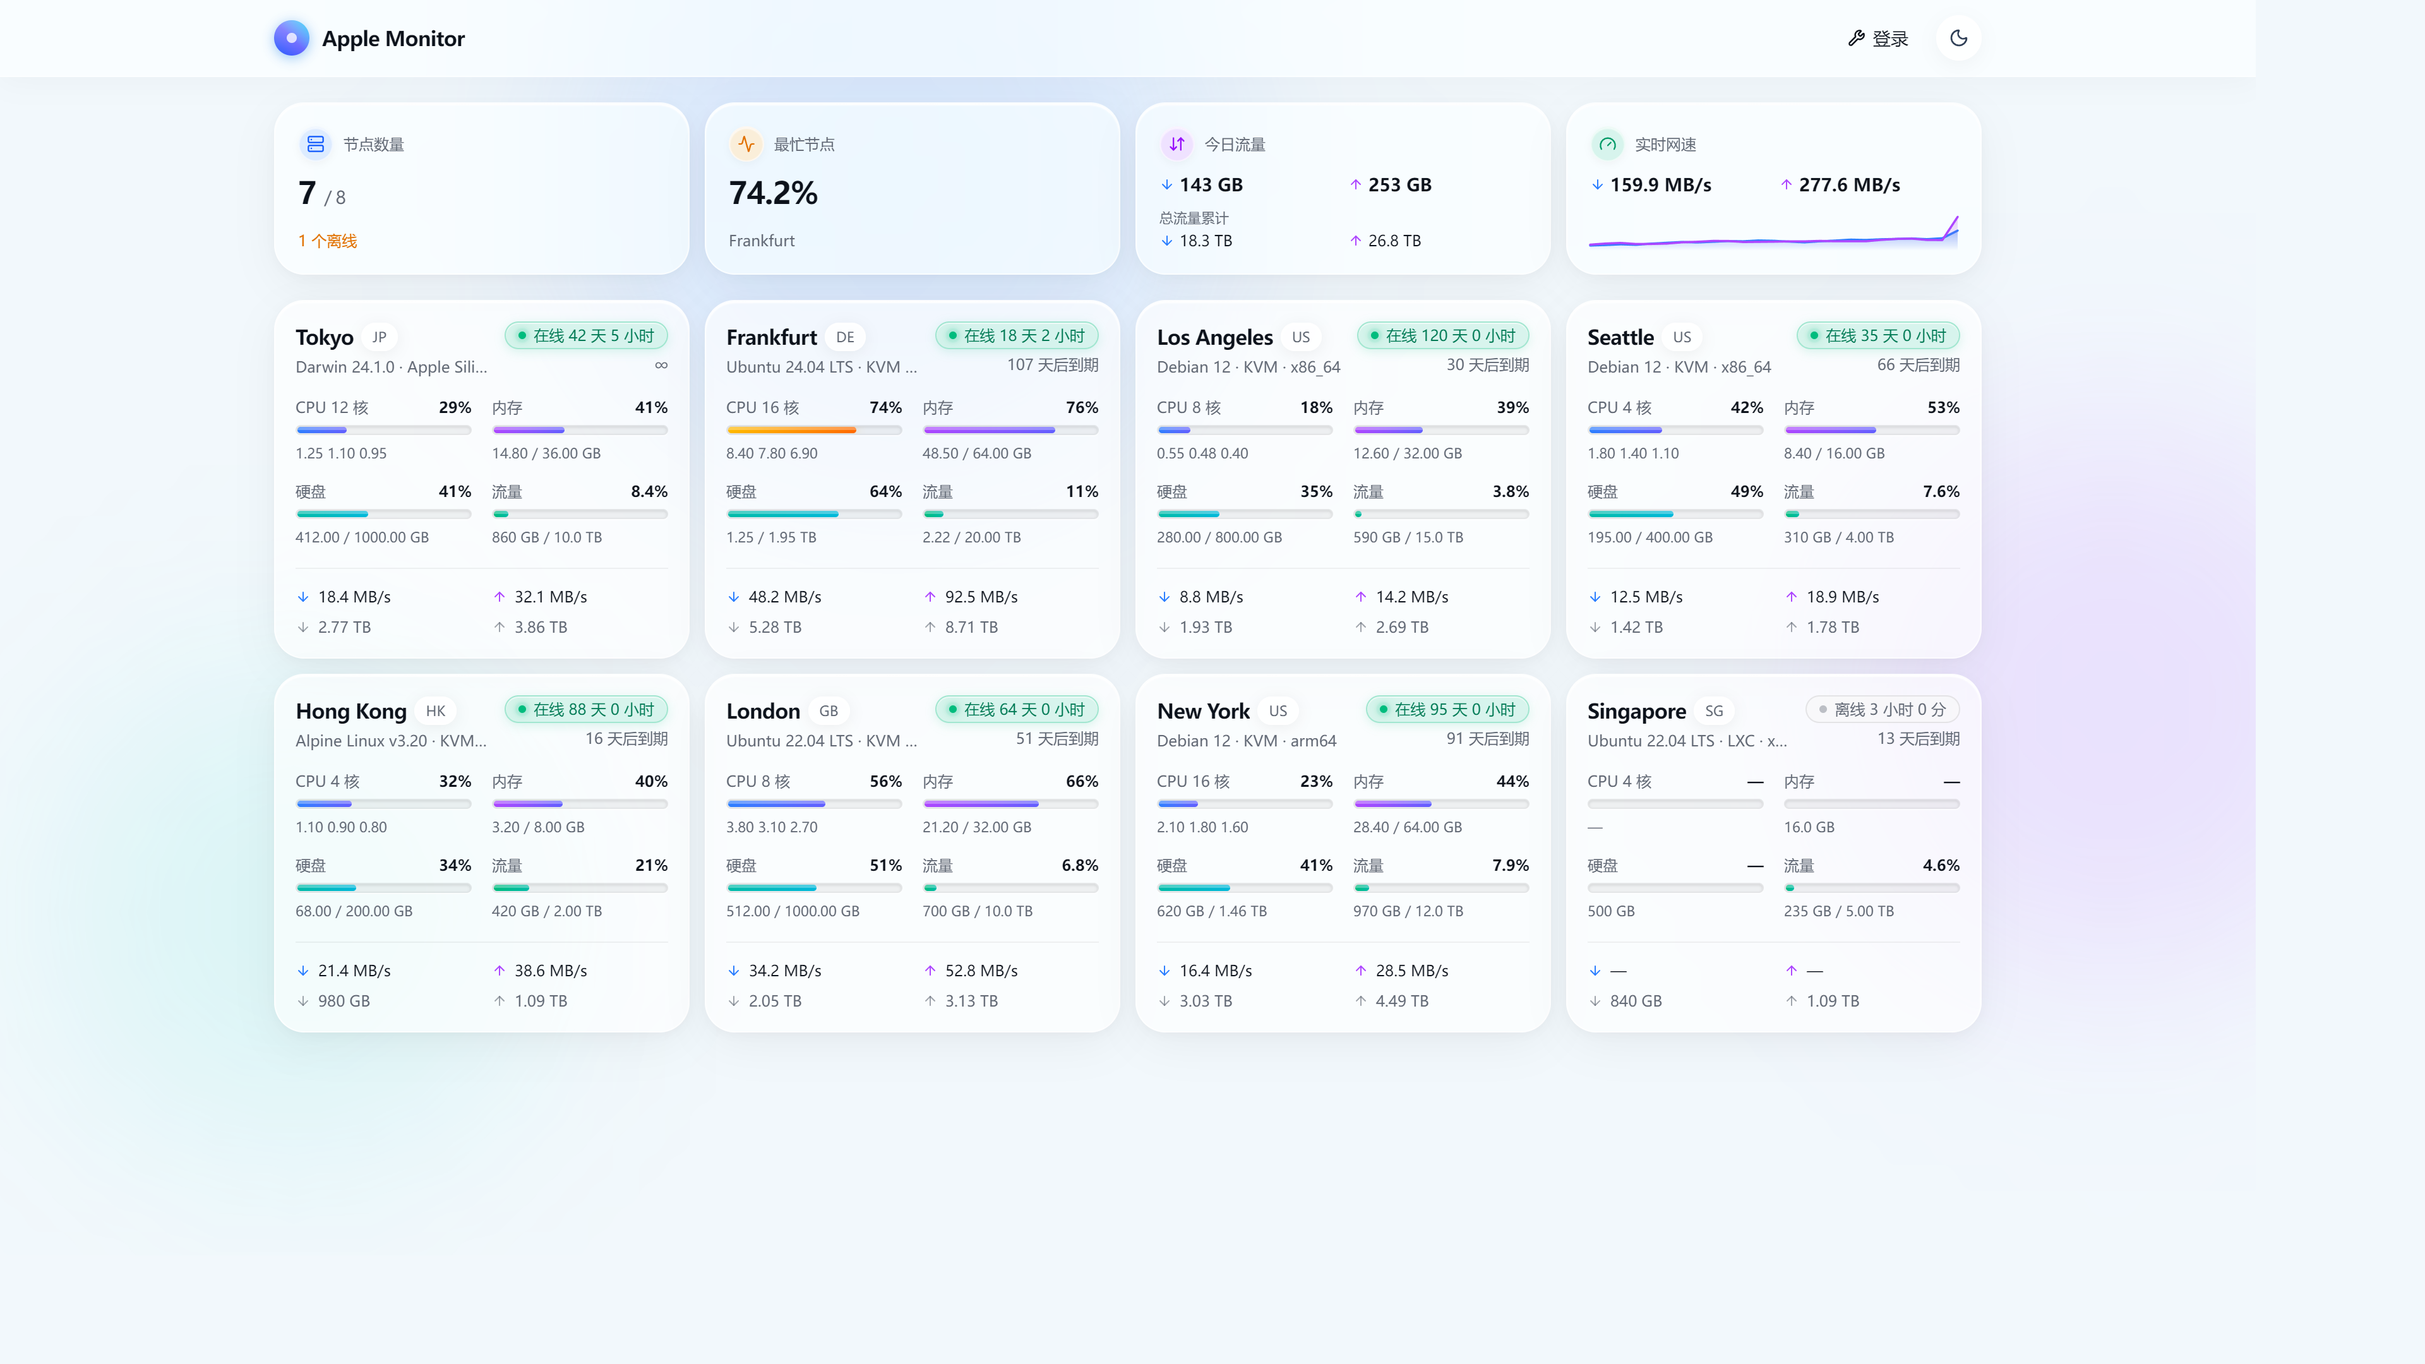
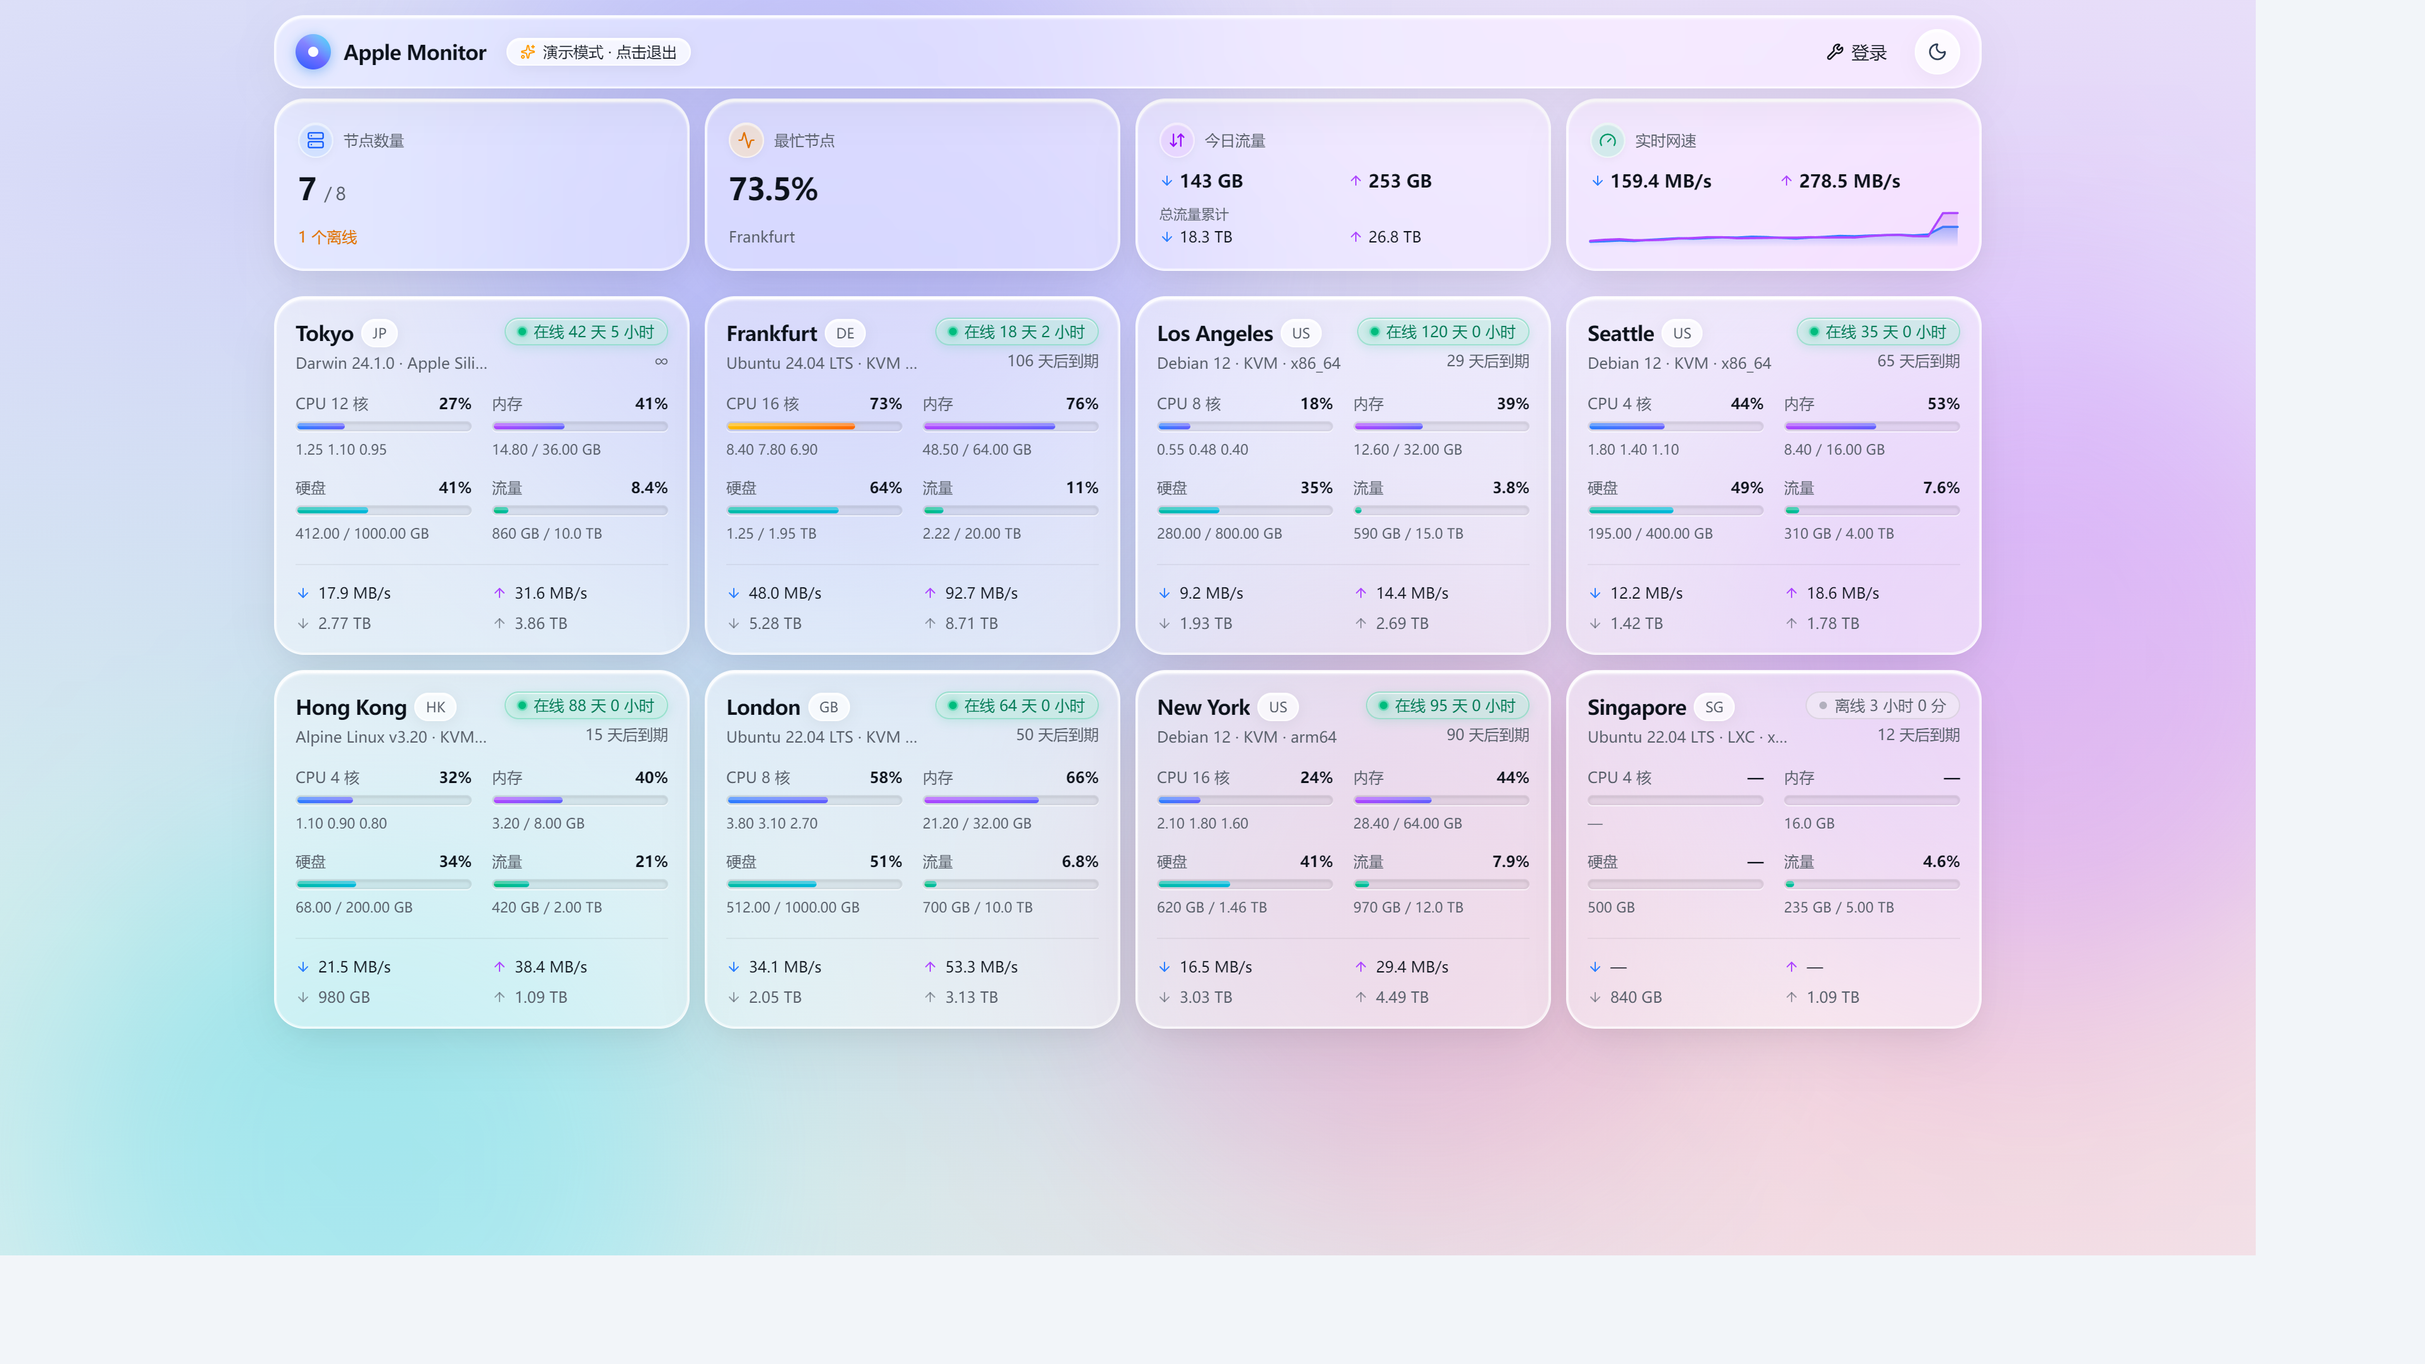
feat: enhance liquid glass transparency, 3D tilt, specular rim, and aurora refraction

diff --git a/src/index.css b/src/index.css
@@ -7,23 +7,23 @@
 
 :root {
   --radius: 1rem;
-  --background: oklch(0.975 0.008 240);
+  --background: #f1f4f9;
   --foreground: oklch(0.18 0.02 260);
-  --card: oklch(1 0 0 / 72%);
+  --card: rgba(255, 255, 255, 0.42);
   --card-foreground: oklch(0.18 0.02 260);
-  --popover: oklch(1 0 0 / 85%);
+  --popover: rgba(255, 255, 255, 0.85);
   --popover-foreground: oklch(0.18 0.02 260);
   --primary: oklch(0.56 0.22 255);
   --primary-foreground: oklch(0.99 0 0);
-  --secondary: oklch(0.95 0.01 240 / 75%);
+  --secondary: rgba(255, 255, 255, 0.5);
   --secondary-foreground: oklch(0.22 0.02 260);
-  --muted: oklch(0.94 0.01 240 / 65%);
-  --muted-foreground: oklch(0.52 0.02 260);
-  --accent: oklch(0.94 0.02 255 / 80%);
+  --muted: rgba(255, 255, 255, 0.35);
+  --muted-foreground: oklch(0.48 0.02 260);
+  --accent: rgba(255, 255, 255, 0.6);
   --accent-foreground: oklch(0.2 0.04 255);
   --destructive: oklch(0.6 0.22 25);
-  --border: oklch(0 0 0 / 8%);
-  --input: oklch(0 0 0 / 10%);
+  --border: rgba(255, 255, 255, 0.5);
+  --input: rgba(0, 0, 0, 0.08);
   --ring: oklch(0.56 0.22 255 / 35%);
   
   /* Apple Vibrant Palette */
@@ -37,36 +37,36 @@
   --warn: oklch(0.73 0.18 55);      /* Apple Orange */
 
   /* Glassmorphism Specs */
-  --glass-bg: rgba(255, 255, 255, 0.7);
+  --glass-bg: rgba(255, 255, 255, 0.45);
   --glass-border: rgba(255, 255, 255, 0.7);
-  --glass-shadow: 0 8px 32px 0 rgba(0, 0, 0, 0.05), 0 1px 2px 0 rgba(0, 0, 0, 0.02);
-  --glass-highlight: inset 0 1px 1px 0 rgba(255, 255, 255, 0.9);
+  --glass-shadow: 0 12px 36px 0 rgba(0, 0, 0, 0.06), 0 2px 6px 0 rgba(0, 0, 0, 0.02);
+  --glass-highlight: inset 0 1.5px 1.5px 0 rgba(255, 255, 255, 0.95);
 
   /* Liquid Glass Specs */
-  --liquid-glass-bg: rgba(255, 255, 255, 0.65);
+  --liquid-glass-bg: rgba(255, 255, 255, 0.42);
   --liquid-glass-border: rgba(255, 255, 255, 0.75);
-  --liquid-glass-shadow: 0 10px 36px -4px rgba(0, 0, 0, 0.06), 0 2px 8px -1px rgba(0, 0, 0, 0.03);
-  --liquid-glass-highlight: inset 0 1.5px 1.5px 0 rgba(255, 255, 255, 0.95), inset 0 -1px 1px 0 rgba(255, 255, 255, 0.4);
+  --liquid-glass-shadow: 0 16px 44px -4px rgba(0, 0, 0, 0.08), 0 4px 12px -2px rgba(0, 0, 0, 0.04);
+  --liquid-glass-highlight: inset 0 0 0 1px rgba(255, 255, 255, 0.4), inset 0 2px 2px 0 rgba(255, 255, 255, 0.95);
 }
 
 .dark {
-  --background: oklch(0.12 0.015 260);
+  --background: #0d111a;
   --foreground: oklch(0.98 0.005 240);
-  --card: oklch(0.18 0.02 260 / 65%);
+  --card: rgba(18, 22, 32, 0.52);
   --card-foreground: oklch(0.98 0.005 240);
-  --popover: oklch(0.18 0.02 260 / 85%);
+  --popover: rgba(18, 22, 32, 0.85);
   --popover-foreground: oklch(0.98 0.005 240);
   --primary: oklch(0.65 0.22 255);
   --primary-foreground: oklch(1 0 0);
-  --secondary: oklch(0.24 0.02 260 / 70%);
+  --secondary: rgba(255, 255, 255, 0.08);
   --secondary-foreground: oklch(0.98 0.005 240);
-  --muted: oklch(0.24 0.02 260 / 70%);
+  --muted: rgba(255, 255, 255, 0.06);
   --muted-foreground: oklch(0.65 0.015 260);
-  --accent: oklch(0.26 0.03 260 / 80%);
+  --accent: rgba(255, 255, 255, 0.12);
   --accent-foreground: oklch(0.98 0.005 240);
   --destructive: oklch(0.65 0.22 25);
-  --border: oklch(1 0 0 / 12%);
-  --input: oklch(1 0 0 / 14%);
+  --border: rgba(255, 255, 255, 0.12);
+  --input: rgba(255, 255, 255, 0.14);
   --ring: oklch(0.65 0.22 255 / 40%);
 
   /* Apple Vibrant Palette in Dark */
@@ -80,16 +80,16 @@
   --warn: oklch(0.78 0.18 55);
 
   /* Glassmorphism Specs in Dark */
-  --glass-bg: rgba(28, 30, 36, 0.65);
-  --glass-border: rgba(255, 255, 255, 0.13);
-  --glass-shadow: 0 8px 32px 0 rgba(0, 0, 0, 0.38), 0 1px 2px 0 rgba(0, 0, 0, 0.2);
-  --glass-highlight: inset 0 1px 1px 0 rgba(255, 255, 255, 0.16);
+  --glass-bg: rgba(20, 24, 34, 0.55);
+  --glass-border: rgba(255, 255, 255, 0.15);
+  --glass-shadow: 0 16px 48px 0 rgba(0, 0, 0, 0.5), 0 2px 8px 0 rgba(0, 0, 0, 0.3);
+  --glass-highlight: inset 0 1px 1px 0 rgba(255, 255, 255, 0.2);
 
   /* Liquid Glass Specs in Dark */
-  --liquid-glass-bg: rgba(24, 27, 34, 0.62);
-  --liquid-glass-border: rgba(255, 255, 255, 0.14);
-  --liquid-glass-shadow: 0 14px 40px -4px rgba(0, 0, 0, 0.45), 0 2px 10px -1px rgba(0, 0, 0, 0.25);
-  --liquid-glass-highlight: inset 0 1.5px 1.5px 0 rgba(255, 255, 255, 0.2), inset 0 -1px 1px 0 rgba(0, 0, 0, 0.4);
+  --liquid-glass-bg: rgba(18, 22, 32, 0.52);
+  --liquid-glass-border: rgba(255, 255, 255, 0.16);
+  --liquid-glass-shadow: 0 20px 52px -4px rgba(0, 0, 0, 0.58), 0 4px 16px -2px rgba(0, 0, 0, 0.35);
+  --liquid-glass-highlight: inset 0 0 0 1px rgba(255, 255, 255, 0.12), inset 0 2px 2px 0 rgba(255, 255, 255, 0.25);
 }
 
 @theme inline {
@@ -134,11 +134,32 @@
     scrollbar-gutter: stable;
   }
   body {
-    @apply bg-background text-foreground;
+    @apply text-foreground;
+    background-color: #f2f5f9;
+    background-image:
+      radial-gradient(at 12% 15%, rgba(99, 102, 241, 0.22) 0px, transparent 50%),
+      radial-gradient(at 88% 18%, rgba(168, 85, 247, 0.22) 0px, transparent 50%),
+      radial-gradient(at 50% 52%, rgba(59, 130, 246, 0.16) 0px, transparent 60%),
+      radial-gradient(at 15% 82%, rgba(20, 184, 166, 0.2) 0px, transparent 55%),
+      radial-gradient(at 85% 85%, rgba(244, 63, 94, 0.18) 0px, transparent 50%);
+    background-attachment: fixed;
+    background-size: cover;
     font-family: -apple-system, BlinkMacSystemFont, "SF Pro Display", "SF Pro Text", "Helvetica Neue", "PingFang SC", "Hiragino Sans GB", "Microsoft YaHei", sans-serif;
     -webkit-font-smoothing: antialiased;
     -moz-osx-font-smoothing: grayscale;
     min-height: 100vh;
+  }
+
+  .dark body {
+    background-color: #0c0f17;
+    background-image:
+      radial-gradient(at 12% 15%, rgba(99, 102, 241, 0.32) 0px, transparent 50%),
+      radial-gradient(at 88% 18%, rgba(168, 85, 247, 0.3) 0px, transparent 50%),
+      radial-gradient(at 50% 52%, rgba(37, 99, 235, 0.24) 0px, transparent 60%),
+      radial-gradient(at 15% 82%, rgba(13, 148, 136, 0.28) 0px, transparent 55%),
+      radial-gradient(at 85% 85%, rgba(225, 29, 72, 0.25) 0px, transparent 50%);
+    background-attachment: fixed;
+    background-size: cover;
   }
 }
 

diff --git a/src/components/ui/card.tsx b/src/components/ui/card.tsx
@@ -7,7 +7,19 @@ export interface CardProps extends React.ComponentProps<"div"> {
 }
 
 const Card = React.forwardRef<HTMLDivElement, CardProps>(
-  ({ className, sheen = true, interactive = false, onMouseMove, onMouseLeave, children, ...props }, ref) => {
+  (
+    {
+      className,
+      sheen = true,
+      interactive = false,
+      style,
+      onMouseMove,
+      onMouseLeave,
+      children,
+      ...props
+    },
+    ref
+  ) => {
     const localRef = React.useRef<HTMLDivElement>(null)
     React.useImperativeHandle(ref, () => localRef.current!)
 
@@ -19,7 +31,7 @@ const Card = React.forwardRef<HTMLDivElement, CardProps>(
 
     const handleMouseMove = React.useCallback(
       (e: React.MouseEvent<HTMLDivElement>) => {
-        if (sheen && localRef.current) {
+        if (localRef.current) {
           const rect = localRef.current.getBoundingClientRect()
           const x = ((e.clientX - rect.left) / rect.width) * 100
           const y = ((e.clientY - rect.top) / rect.height) * 100
@@ -27,18 +39,19 @@ const Card = React.forwardRef<HTMLDivElement, CardProps>(
         }
         onMouseMove?.(e)
       },
-      [sheen, onMouseMove]
+      [onMouseMove]
     )
 
     const handleMouseLeave = React.useCallback(
       (e: React.MouseEvent<HTMLDivElement>) => {
-        if (sheen) {
-          setCoords((prev) => ({ ...prev, active: false }))
-        }
+        setCoords((prev) => ({ ...prev, active: false }))
         onMouseLeave?.(e)
       },
-      [sheen, onMouseLeave]
+      [onMouseLeave]
     )
+
+    const tiltX = coords.active ? ((coords.x - 50) * 0.1).toFixed(2) : "0"
+    const tiltY = coords.active ? ((coords.y - 50) * -0.1).toFixed(2) : "0"
 
     return (
       <div
@@ -48,35 +61,62 @@ const Card = React.forwardRef<HTMLDivElement, CardProps>(
         onMouseLeave={handleMouseLeave}
         className={cn(
           "group relative flex flex-col gap-6 overflow-hidden rounded-2xl py-6 text-card-foreground",
-          "border border-white/70 bg-white/65 backdrop-blur-2xl backdrop-saturate-[190%]",
-          "shadow-[0_10px_36px_-4px_rgba(0,0,0,0.06),0_2px_8px_-1px_rgba(0,0,0,0.03),inset_0_1.5px_1px_rgba(255,255,255,0.95)]",
-          "dark:border-white/[0.14] dark:bg-[rgba(26,29,36,0.65)]",
-          "dark:shadow-[0_14px_40px_-4px_rgba(0,0,0,0.45),0_2px_10px_-1px_rgba(0,0,0,0.25),inset_0_1.5px_1px_rgba(255,255,255,0.18)]",
-          "transition-all duration-300 ease-spring",
-          interactive && "cursor-pointer hover:border-white/95 dark:hover:border-white/28",
+          "border border-white/80 bg-white/45 backdrop-blur-2xl backdrop-saturate-[210%]",
+          "shadow-[0_16px_40px_-6px_rgba(0,0,0,0.08),0_4px_16px_-2px_rgba(0,0,0,0.04),inset_0_0_0_1px_rgba(255,255,255,0.45),inset_0_2px_2px_rgba(255,255,255,0.95)]",
+          "dark:border-white/[0.16] dark:bg-[rgba(18,22,32,0.52)]",
+          "dark:shadow-[0_20px_50px_-6px_rgba(0,0,0,0.55),0_4px_20px_-2px_rgba(0,0,0,0.35),inset_0_0_0_1px_rgba(255,255,255,0.12),inset_0_2px_2px_rgba(255,255,255,0.25)]",
+          interactive && "cursor-pointer hover:border-white hover:shadow-[0_24px_52px_-8px_rgba(0,0,0,0.14)] dark:hover:border-white/30 dark:hover:shadow-[0_24px_60px_-8px_rgba(0,0,0,0.7)] active:scale-[0.98]",
           className
         )}
+        style={{
+          transform: interactive && coords.active
+            ? `perspective(1000px) rotateX(${tiltY}deg) rotateY(${tiltX}deg) translate3d(0, -6px, 0)`
+            : "perspective(1000px) rotateX(0deg) rotateY(0deg) translate3d(0, 0, 0)",
+          transition: coords.active
+            ? "transform 0.12s cubic-bezier(0.2, 0, 0, 1), box-shadow 0.25s ease, border-color 0.25s ease"
+            : "transform 0.6s cubic-bezier(0.32, 0.72, 0, 1), box-shadow 0.4s ease, border-color 0.3s ease",
+          ...style,
+        }}
         {...props}
       >
+        {/* Apple Liquid Glass Dynamic Prismatic Rim Reflection */}
+        <div
+          className="pointer-events-none absolute inset-0 z-10 rounded-[inherit] opacity-80 transition-opacity duration-300 group-hover:opacity-100"
+          style={{
+            background: `linear-gradient(
+              ${135 + Number(tiltX) * 4}deg,
+              rgba(255, 255, 255, 0.7) 0%,
+              rgba(255, 255, 255, 0.1) 40%,
+              rgba(255, 255, 255, 0.0) 60%,
+              rgba(255, 255, 255, 0.4) 100%
+            )`,
+            WebkitMask: "linear-gradient(#000 0 0) content-box, linear-gradient(#000 0 0)",
+            WebkitMaskComposite: "xor",
+            maskComposite: "exclude",
+            padding: "1px",
+          }}
+          aria-hidden="true"
+        />
+
         {/* Dynamic Refractive Liquid Sheen on Hover */}
         {sheen && (
           <div
-            className="pointer-events-none absolute inset-0 z-0 opacity-0 transition-opacity duration-500 group-hover:opacity-100"
+            className="pointer-events-none absolute inset-0 z-0 opacity-0 transition-opacity duration-400 group-hover:opacity-100"
             style={{
-              background: `radial-gradient(420px circle at ${coords.x}% ${coords.y}%, rgba(255, 255, 255, 0.22), transparent 60%)`,
+              background: `radial-gradient(400px circle at ${coords.x}% ${coords.y}%, rgba(255, 255, 255, 0.28), transparent 65%)`,
             }}
             aria-hidden="true"
           />
         )}
 
-        {/* Top Rim Prismatic Light Highlight */}
+        {/* Top Rim Specular Highlight */}
         <div
-          className="pointer-events-none absolute inset-x-0 top-0 z-0 h-[1px] bg-gradient-to-r from-transparent via-white/80 to-transparent dark:via-white/30"
+          className="pointer-events-none absolute inset-x-0 top-0 z-10 h-[1.5px] bg-gradient-to-r from-transparent via-white to-transparent opacity-90 dark:via-white/40"
           aria-hidden="true"
         />
 
         {/* Card Content */}
-        <div className="relative z-10 flex flex-col gap-inherit w-full h-full">{children}</div>
+        <div className="relative z-20 flex flex-col gap-inherit w-full h-full">{children}</div>
       </div>
     )
   }

diff --git a/src/App.tsx b/src/App.tsx
@@ -152,14 +152,15 @@ export default function App() {
       <LiquidGlassFilterDefs />
       {/* Apple Ambient Mesh Diffuse Background Orbs */}
       <div className="ambient-mesh" aria-hidden>
-        <div className="ambient-orb ambient-orb-1 -top-28 left-1/4 h-[32rem] w-[32rem] bg-blue-500/20 dark:bg-blue-600/15" />
-        <div className="ambient-orb ambient-orb-2 top-1/3 -right-24 h-[28rem] w-[28rem] bg-purple-500/20 dark:bg-purple-600/15" />
-        <div className="ambient-orb ambient-orb-3 bottom-20 left-10 h-96 w-96 bg-teal-400/15 dark:bg-teal-600/10" />
+        <div className="ambient-orb ambient-orb-1 -top-32 left-1/5 h-[36rem] w-[36rem] bg-indigo-500/35 dark:bg-indigo-600/30" />
+        <div className="ambient-orb ambient-orb-2 top-1/4 -right-20 h-[34rem] w-[34rem] bg-purple-500/35 dark:bg-purple-600/30" />
+        <div className="ambient-orb ambient-orb-3 top-2/3 left-10 h-[32rem] w-[32rem] bg-cyan-400/30 dark:bg-teal-500/25" />
+        <div className="ambient-orb ambient-orb-1 bottom-10 right-1/4 h-[30rem] w-[30rem] bg-pink-500/25 dark:bg-rose-500/20" />
       </div>
 
-      {/* Floating Apple Liquid Glass Navigation Header */}
-      <header className="sticky top-0 z-30 border-b border-white/60 bg-white/65 backdrop-blur-3xl backdrop-saturate-[190%] transition-all duration-300 dark:border-white/[0.1] dark:bg-[rgba(20,22,28,0.7)] shadow-[0_4px_24px_rgba(0,0,0,0.03)]">
-        <div className="mx-auto flex max-w-[1400px] items-center gap-3 px-4 py-3 sm:px-6">
+      {/* Floating Apple Liquid Glass Navigation Island */}
+      <header className="sticky top-3 z-30 mx-auto max-w-[1400px] px-4 sm:px-6 transition-all">
+        <div className="flex items-center gap-3 rounded-2xl border border-white/80 bg-white/45 px-4 py-2.5 backdrop-blur-3xl backdrop-saturate-[210%] shadow-[0_12px_36px_rgba(0,0,0,0.06),inset_0_0_0_1px_rgba(255,255,255,0.4),inset_0_1.5px_2px_rgba(255,255,255,0.95)] dark:border-white/[0.16] dark:bg-[rgba(18,22,32,0.55)] dark:shadow-[0_16px_44px_rgba(0,0,0,0.5),inset_0_0_0_1px_rgba(255,255,255,0.12),inset_0_1.5px_2px_rgba(255,255,255,0.25)]">
           <button
             className="group flex items-center gap-2.5 text-base font-semibold tracking-tight transition-opacity hover:opacity-80"
             onClick={() => go(null)}
